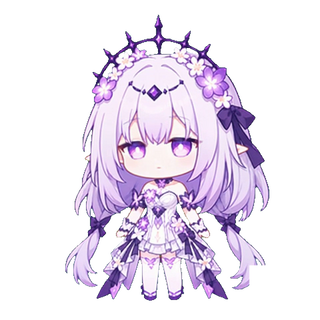
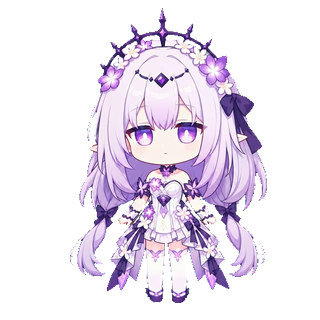
Improve Castorice blink animation

Changed region(s): [[0.1875, 0.0312, 0.8438, 0.9688]]

diff --git a/tests/CastoPet.Tests/Program.cs b/tests/CastoPet.Tests/Program.cs
@@ -1198,8 +1198,20 @@ static void BuiltInCastoriceBlinkActionPreservesSchedule()
 {
     var blink = BuiltInPetSkins.Castorice.GetRequiredAction(PetActionKind.Blink);
 
-    Assert.Equal(3, blink.FramePaths.Count, "Blink should keep three frames.");
-    Assert.Equal(TimeSpan.FromMilliseconds(90), blink.FrameInterval, "Blink frame interval should stay compatible.");
+    Assert.Equal(5, blink.FramePaths.Count, "Blink should use a complete five-frame close and reopen sequence.");
+    Assert.Equal(TimeSpan.FromMilliseconds(45), blink.FrameInterval, "Blink should use a short fallback interval.");
+    Assert.True(
+        new TimeSpan?[]
+        {
+            TimeSpan.FromMilliseconds(40),
+            TimeSpan.FromMilliseconds(45),
+            TimeSpan.FromMilliseconds(60),
+            TimeSpan.FromMilliseconds(45),
+            TimeSpan.FromMilliseconds(35),
+        }.SequenceEqual(blink.FrameDurations ?? []),
+        "Blink should preserve its authored close, hold, and reopen timing.");
+    Assert.Equal("Assets/Runtime/Castorice/States/Blink/Castorice.Blink.00.png", blink.FramePaths[0], "Blink should start from frame zero.");
+    Assert.Equal("Assets/Runtime/Castorice/States/Blink/Castorice.Blink.04.png", blink.FramePaths[^1], "Blink should reopen on frame four.");
     Assert.Equal(TimeSpan.FromSeconds(3), blink.MinScheduleDelay, "Blink min schedule should stay compatible.");
     Assert.Equal(TimeSpan.FromSeconds(7), blink.MaxScheduleDelay, "Blink max schedule should stay compatible.");
 }
@@ -1850,12 +1862,12 @@ static void BuiltInBlinkActionDefinesRandomBlinkFrames()
 {
     var blink = BuiltInPetSkins.Castorice.GetRequiredAction(PetActionKind.Blink);
 
-    Assert.Equal(3, blink.FramePaths.Count, "Blink should use three frames.");
-    Assert.Equal(TimeSpan.FromMilliseconds(90), blink.FrameInterval, "Blink frames should advance quickly.");
+    Assert.Equal(5, blink.FramePaths.Count, "Blink should use five frames.");
+    Assert.Equal(TimeSpan.FromMilliseconds(45), blink.FrameInterval, "Blink frames should advance quickly.");
     Assert.Equal(TimeSpan.FromSeconds(3), blink.MinScheduleDelay, "Blink should not repeat too frequently.");
     Assert.Equal(TimeSpan.FromSeconds(7), blink.MaxScheduleDelay, "Blink should remain occasional.");
     Assert.Equal("Assets/Runtime/Castorice/States/Blink/Castorice.Blink.00.png", blink.FramePaths[0], "First blink frame path should be zero padded.");
-    Assert.Equal("Assets/Runtime/Castorice/States/Blink/Castorice.Blink.02.png", blink.FramePaths[^1], "Last blink frame path should be zero padded.");
+    Assert.Equal("Assets/Runtime/Castorice/States/Blink/Castorice.Blink.04.png", blink.FramePaths[^1], "Last blink frame path should be zero padded.");
 }
 
 static void BuiltInMoveActionDefinesEightDistanceDrivenPaths()
